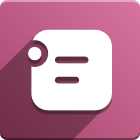
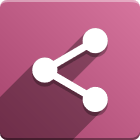
[ADD] mail_attachment_share

Changed region(s): [[0.0, 0.2, 0.8, 0.8286]]

diff --git a/mail_attachment_share/static/src/js/attachment_box_sharing.js b/mail_attachment_share/static/src/js/attachment_box_sharing.js
@@ -1,0 +1,38 @@
+
+odoo.define("mail_attachment_share/static/src/js/attachment_box_sharing.js", function (require) {
+    "use strict";
+
+    var rpc = require("web.rpc");
+
+    const components = {
+        AttachmentBox: require("mail/static/src/components/attachment_box/attachment_box.js"),
+    };
+
+    const { patch } = require("web.utils");
+
+    patch(
+        components.AttachmentBox,
+        "mail_attachment_share/static/src/js/attachment_box_sharing.js",
+        {
+            // --------------------------------------------------------------------------
+            // Handlers
+            // --------------------------------------------------------------------------
+            _onClickShare: function (ev) {
+                return this.env.bus.trigger('do-action', {
+                    action: 'mail_attachment_share.action_attachment_sharing',
+                    options: {
+                        additional_context: {
+                            default_res_id: this.thread.id,
+                            default_res_model: this.thread.model,
+                        },
+                        on_close: () => {
+                            this.trigger('reload', { keepChanges: true });
+                        },
+                    },
+                });
+            },
+
+        }
+    );
+});
+

diff --git a/mail_attachment_share/static/description/index.html b/mail_attachment_share/static/description/index.html
@@ -1,0 +1,5 @@
+<?xml version="1.0" encoding="utf-8" ?>
+<!DOCTYPE html PUBLIC "-//W3C//DTD XHTML 1.0 Transitional//EN" "http://www.w3.org/TR/xhtml1/DTD/xhtml1-transitional.dtd">
+<html xmlns="http://www.w3.org/1999/xhtml" xml:lang="en" lang="en">
+
+</html>

diff --git a/mail_attachment_share/controllers/main.py b/mail_attachment_share/controllers/main.py
@@ -1,0 +1,47 @@
+# Copyright (C) DEC SARL, Inc - All Rights Reserved.
+# Written by Yann Papouin <ypa at decgroupe.com>, Sep 2024
+
+import base64
+import json
+
+import werkzeug
+
+from odoo import http
+from odoo.addons.web.controllers.main import _serialize_exception
+from odoo.http import request
+from odoo.tools import html_escape
+
+
+class AttachmentSharingController(http.Controller):
+
+    @http.route("/web/attachments/token/<string:token>", type="http", auth="none")
+    def get_shared_attachments(self, token, **kwargs):
+        try:
+            attachment_ids = (
+                request.env["ir.attachment"]
+                .sudo()
+                .search([("sharing_token", "=", token)])
+            )
+            if attachment_ids:
+                for attachment_obj in attachment_ids:
+                    filecontent = base64.b64decode(attachment_obj.datas)
+                    url_filename = werkzeug.urls.url_quote(attachment_obj.name)
+                    disposition = f"attachment; filename={url_filename}"
+                    return request.make_response(
+                        filecontent,
+                        [
+                            ("Content-Type", attachment_obj.mimetype),
+                            ("Content-Length", len(filecontent)),
+                            ("Content-Disposition", disposition),
+                        ],
+                    )
+            else:
+                raise Exception("Attachment(s) not found")
+        except Exception as e:
+            se = _serialize_exception(e)
+            error = {
+                "code": 200,
+                "message": "Odoo Server Error",
+                "data": se,
+            }
+            return request.make_response(html_escape(json.dumps(error)))

diff --git a/mail_attachment_share/models/ir_attachment.py b/mail_attachment_share/models/ir_attachment.py
@@ -1,0 +1,46 @@
+# Copyright (C) DEC SARL, Inc - All Rights Reserved.
+# Written by Yann Papouin <ypa at decgroupe.com>, Sep 2024
+
+import uuid
+
+from odoo import api, fields, models
+
+
+class Attachment(models.Model):
+    _inherit = "ir.attachment"
+
+    sharing_token = fields.Char(
+        string="Token",
+        readonly=True,
+    )
+    sharing_link = fields.Char(
+        string="Link",
+        store=True,
+        compute="_compute_sharing_link",
+    )
+
+    @api.model_create_multi
+    def create(self, vals_list):
+        records = super(Attachment, self).create(vals_list)
+        # records._generate_sharing_token()
+        return records
+
+    def _generate_sharing_token(self):
+        for rec in self:
+            rec.sharing_token = uuid.uuid4()
+
+    def action_generate_sharing_token_from_wizard(self):
+        self._generate_sharing_token()
+        wizard_id = self.env.context.get("wizard_id")
+        if wizard_id:
+            return self.env["attachment.sharing"]._reopen(wizard_id)
+
+    @api.depends("sharing_token")
+    def _compute_sharing_link(self):
+        base_url = self.env["ir.config_parameter"].get_param("web.base.url")
+        attachment_url = base_url + "/web/attachments/token/"
+        for rec in self:
+            if rec.sharing_token:
+                rec.sharing_link = attachment_url + rec.sharing_token
+            else:
+                rec.sharing_link = False

diff --git a/mail_attachment_share/wizard/attachment_sharing.py b/mail_attachment_share/wizard/attachment_sharing.py
@@ -1,0 +1,43 @@
+# Copyright (C) DEC SARL, Inc - All Rights Reserved.
+# Written by Yann Papouin <ypa at decgroupe.com>, Sep 2024
+
+from odoo import api, fields, models
+
+
+class AttachmentSharing(models.TransientModel):
+    _name = "attachment.sharing"
+    _description = "Attachment Sharing Wizard"
+
+    attachment_ids = fields.Many2many(
+        comodel_name="ir.attachment",
+        readonly=True,
+        string="Attachments",
+    )
+
+    @api.model
+    def default_get(self, fields):
+        res = super(AttachmentSharing, self).default_get(fields)
+        context = self._context or {}
+        res_model = context.get("default_res_model")
+        res_id = context.get("default_res_id")
+        if res_model and res_id:
+            domain = [
+                ("res_id", "=", res_id),
+                ("res_model", "=", res_model),
+            ]
+            attachment_ids = self.env["ir.attachment"].search(domain)
+            res["attachment_ids"] = [(6, 0, attachment_ids.ids)]
+
+        return res
+
+    def _reopen(self, id=False):
+        return {
+            "type": "ir.actions.act_window",
+            "view_mode": "form",
+            "res_id": id or self.id,
+            "res_model": self._name,
+            "target": "new",
+            "context": {
+                "default_model": self._name,
+            },
+        }

diff --git a/mail_attachment_share/__manifest__.py b/mail_attachment_share/__manifest__.py
@@ -1,0 +1,19 @@
+{
+    "name": "Attachment Sharing (Public)",
+    "version": "14.0.1.0.0",
+    "author": "DEC",
+    "website": "https://www.decgroupe.com",
+    "depends": [
+        "mail",
+    ],
+    "data": [
+        "security/ir.model.access.csv",
+        "views/ir_attachment.xml",
+        "views/templates.xml",
+        "wizard/attachment_sharing.xml",
+    ],
+    "qweb": [
+        "static/src/xml/attachment_box_sharing.xml",
+    ],
+    "installable": True,
+}

diff --git a/mail_attachment_share/__init__.py b/mail_attachment_share/__init__.py
@@ -1,0 +1,3 @@
+from . import controllers
+from . import models
+from . import wizard

diff --git a/mail_attachment_share/wizard/__init__.py b/mail_attachment_share/wizard/__init__.py
@@ -1,0 +1,1 @@
+from . import attachment_sharing

diff --git a/mail_attachment_share/models/__init__.py b/mail_attachment_share/models/__init__.py
@@ -1,0 +1,1 @@
+from . import ir_attachment

diff --git a/mail_attachment_share/controllers/__init__.py b/mail_attachment_share/controllers/__init__.py
@@ -1,0 +1,1 @@
+from . import main
